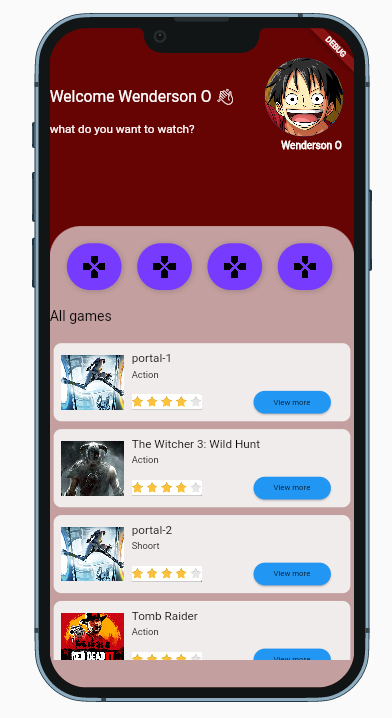
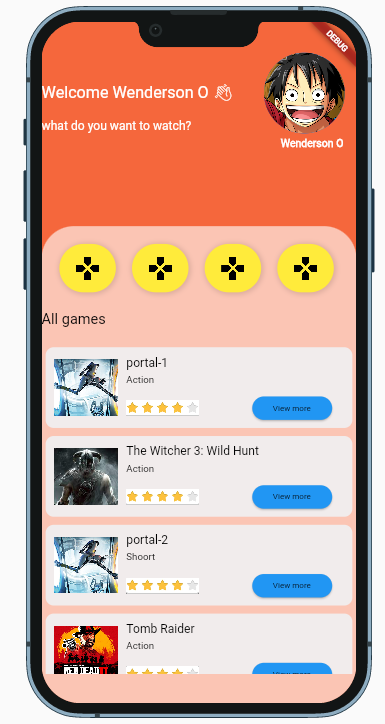
Second Commit

diff --git a/lib/home.dart b/lib/home.dart
@@ -12,7 +12,7 @@ class Home extends StatelessWidget {
   Widget build(BuildContext context) {
     return MaterialApp(
       home: Scaffold(
-        backgroundColor: Color.fromARGB(255, 102, 4, 4),
+        backgroundColor: Color.fromARGB(255, 245, 103, 60),
         body: LayoutBuilder(
           builder: (context, constraints) {
             return Stack(
@@ -22,7 +22,7 @@ class Home extends StatelessWidget {
                     Expanded(
                       child: Container(
                         child: Head(),
-                        color: Color.fromARGB(255, 102, 4, 4),
+                        color: Color.fromARGB(255, 245, 103, 60),
                         height: constraints.maxHeight*.3,
                         width: constraints.maxWidth,
                       ),

diff --git a/lib/widgets/widgets_category.dart b/lib/widgets/widgets_category.dart
@@ -12,7 +12,7 @@ class CategoryItem extends StatelessWidget {
       margin: EdgeInsets.all(10),
       padding: EdgeInsets.all(10),
       decoration: BoxDecoration(
-        color: Color.fromARGB(255, 118, 59, 255),
+        color: Colors.yellow,
         boxShadow: const [
           BoxShadow(
             color: Colors.black12,
